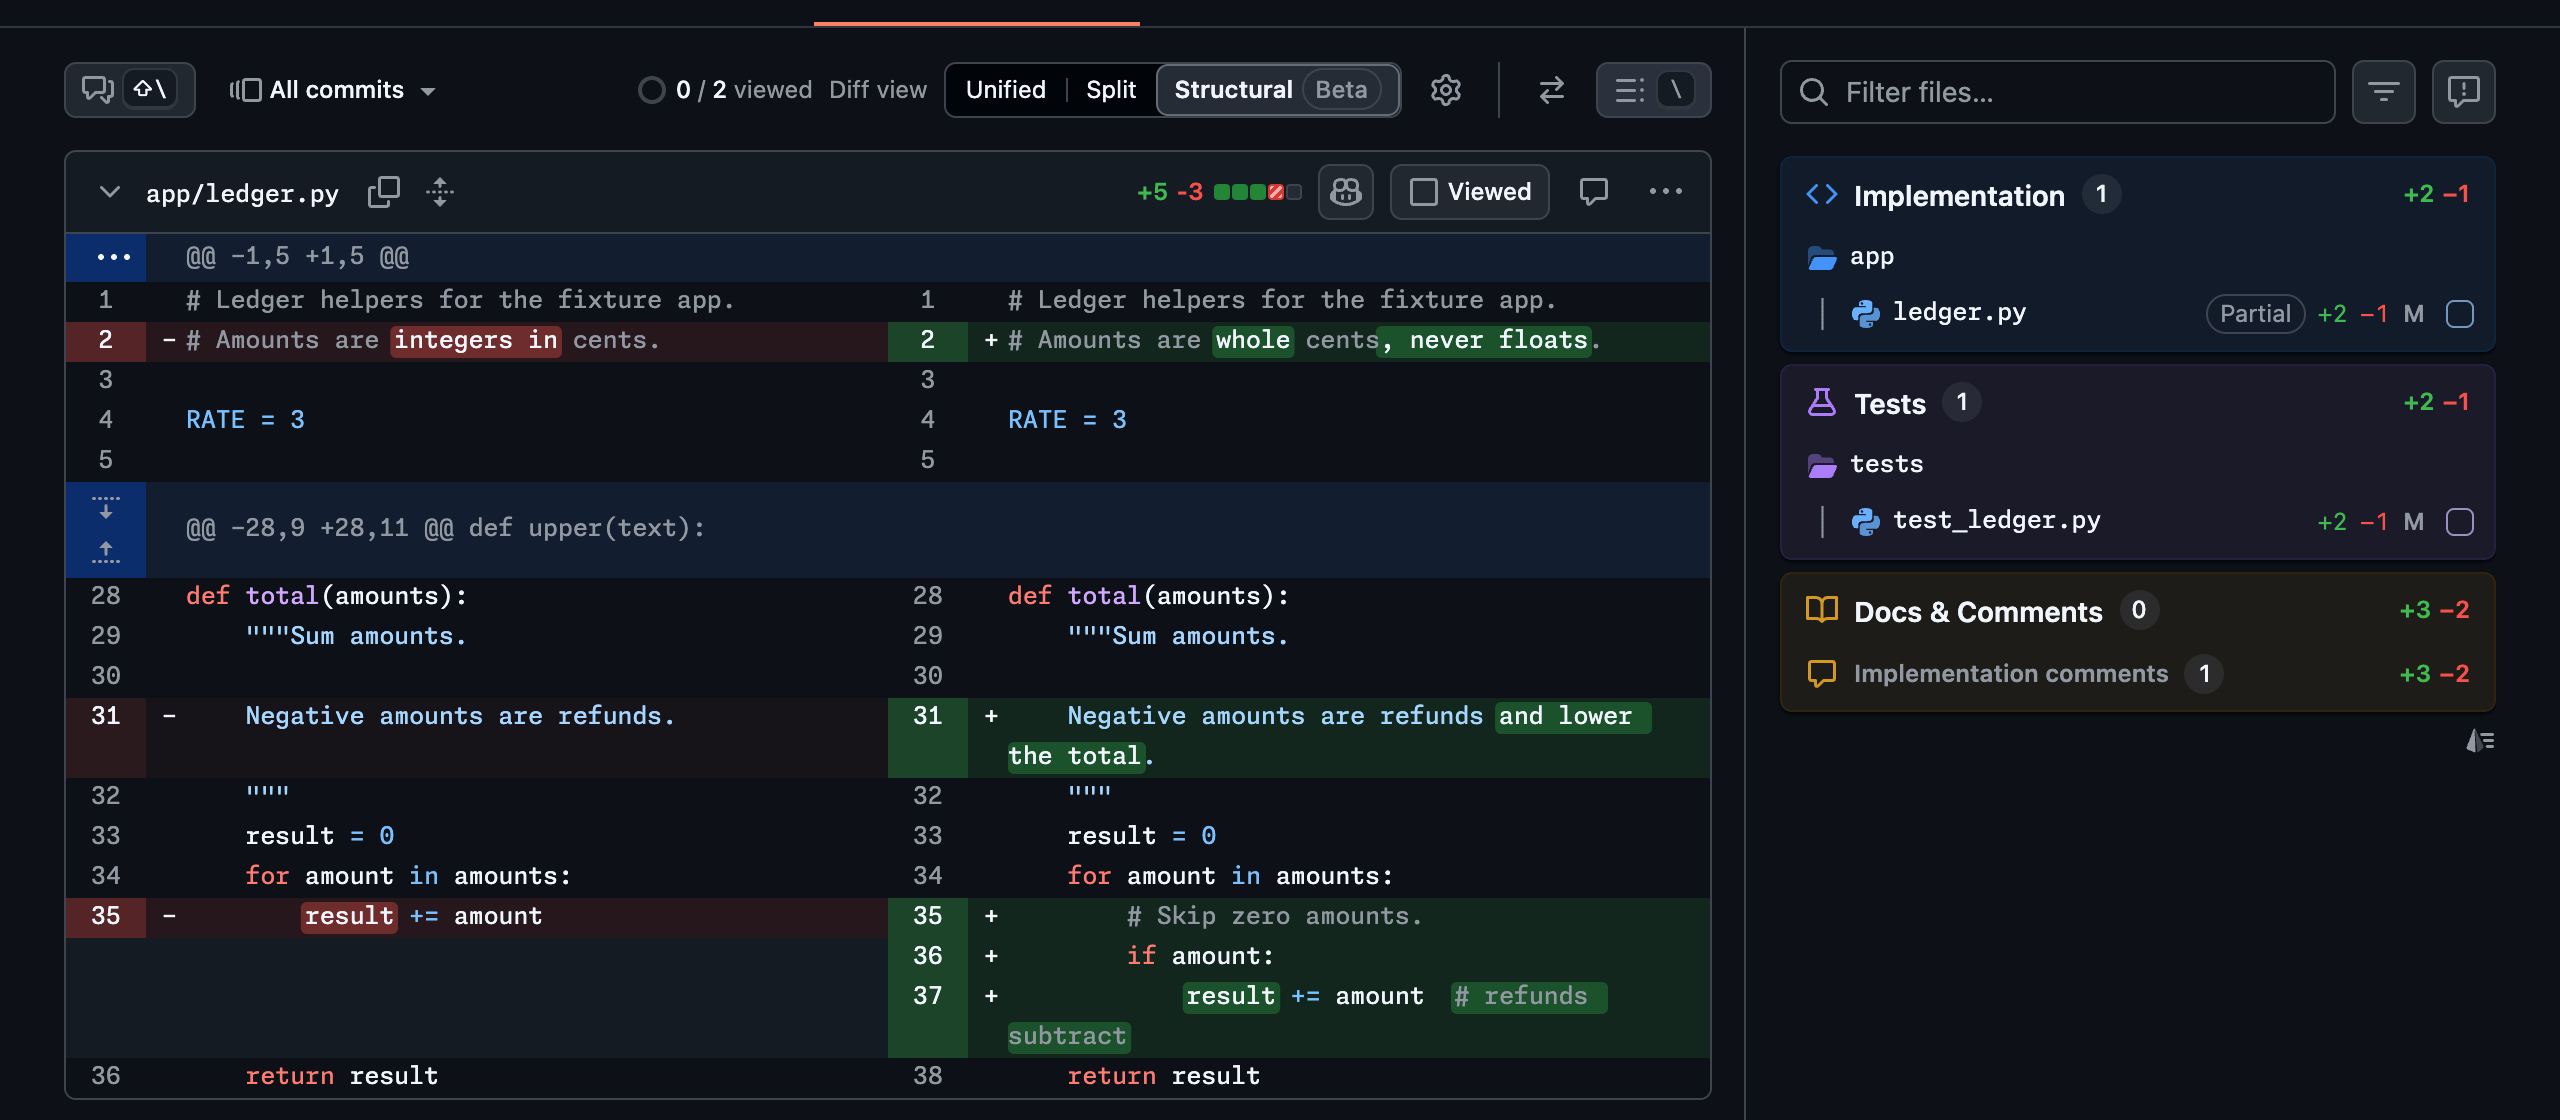
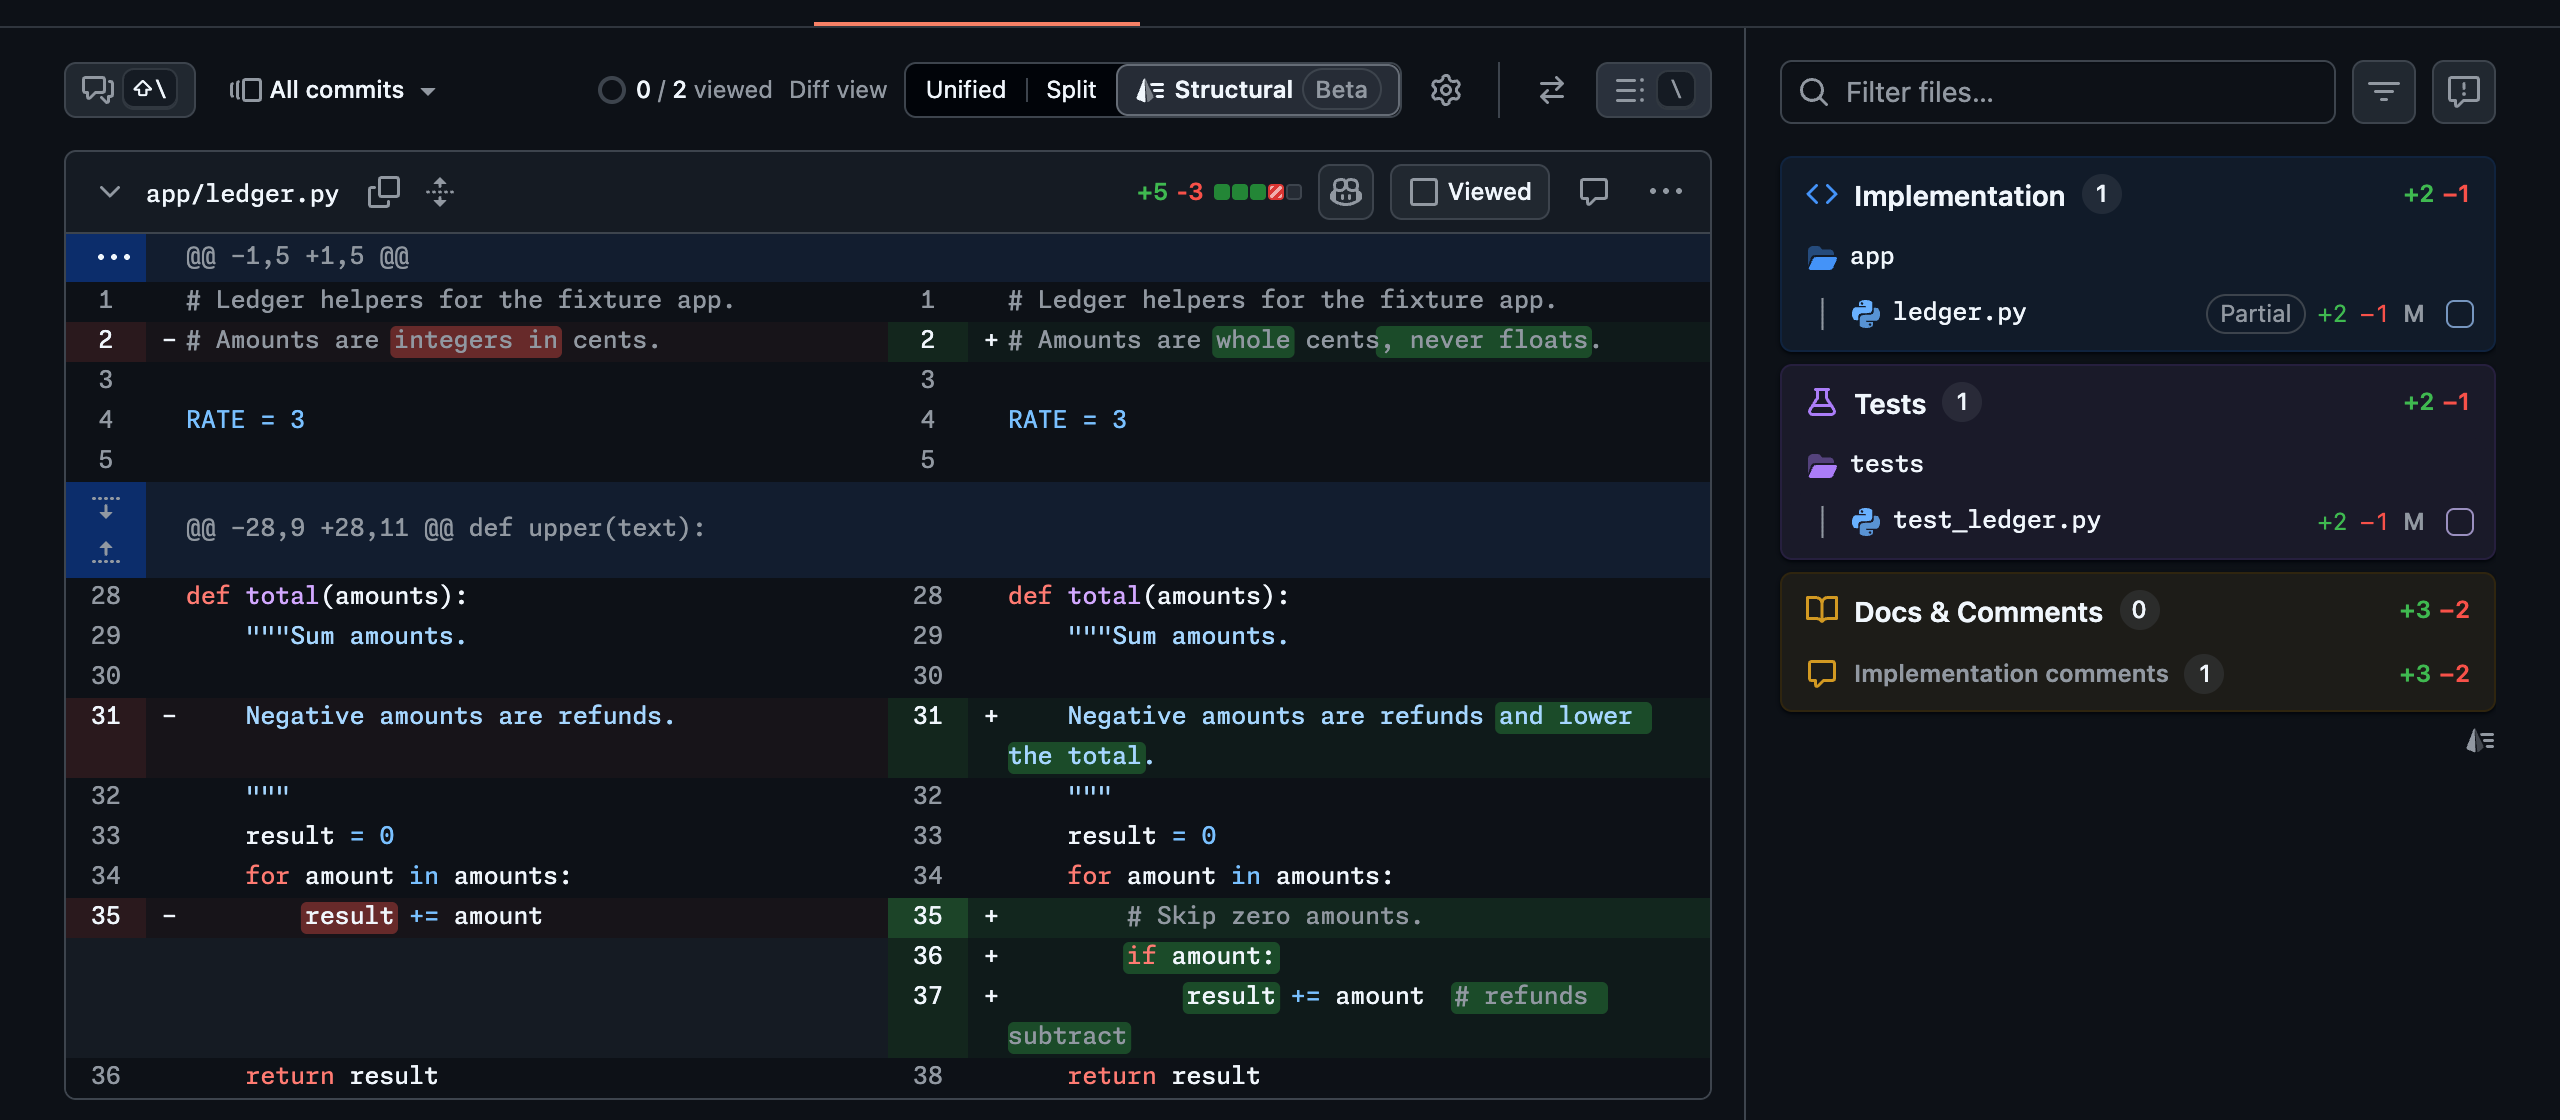
fix(structural): make the second feedback round's layers agree (#136)

diff --git a/utils/structural/engine.ts b/utils/structural/engine.ts
@@ -103,8 +103,14 @@ export async function structuralChanges(input: EngineInput): Promise<EngineResul
   if (!oldParsed.units || !newParsed.units) return { ok: true, changes };
 
   const inside = {
-    old: linesInside(oldSource, changed.old, oldParsed.units),
-    new: linesInside(newSource, changed.new, newParsed.units),
+    old: linesInside(oldSource, oldParsed.units, {
+      changed: changed.old,
+      rewritten: changed.rewritten.old,
+    }),
+    new: linesInside(newSource, newParsed.units, {
+      changed: changed.new,
+      rewritten: changed.rewritten.new,
+    }),
   };
   return { ok: true, changes: { ...changes, inside } };
 }
@@ -186,6 +192,21 @@ interface ChangedTokens {
   readonly new: readonly Token[];
 }
 
+/** A window's changed tokens, `rewritten` when its diff passed the edit limit. */
+interface WindowChanges extends ChangedTokens {
+  readonly rewritten?: true;
+}
+
+/** Every region's changed tokens, and those among them of the regions rewritten past the edit limit. */
+interface RegionChanges extends ChangedTokens {
+  readonly rewritten: ChangedTokens;
+}
+
+const joined = (parts: readonly ChangedTokens[]): ChangedTokens => ({
+  old: parts.flatMap((part) => part.old),
+  new: parts.flatMap((part) => part.new),
+});
+
 /** The tokens one Myers diff per region finds changed, or `too-slow` past the diff's deadline. */
 function changedTokens(
   regions: readonly ChangedRegion[],
@@ -193,9 +214,9 @@ function changedTokens(
   newSource: Source,
   limits: EngineLimits,
   now: () => number,
-): ChangedTokens | "too-slow" {
+): RegionChanges | "too-slow" {
   const deadline = now() + limits.maxDiffMs;
-  const parts: ChangedTokens[] = [];
+  const parts: WindowChanges[] = [];
   for (const window of diffWindows(regions, oldSource, newSource)) {
     if (now() > deadline) return "too-slow";
     parts.push(
@@ -207,7 +228,7 @@ function changedTokens(
     );
   }
 
-  return { old: parts.flatMap((part) => part.old), new: parts.flatMap((part) => part.new) };
+  return { ...joined(parts), rewritten: joined(parts.filter((part) => part.rewritten)) };
 }
 
 /** One version's tokens in a window. */
@@ -314,7 +335,7 @@ function windowChanges(
   oldSide: WindowSide,
   newSide: WindowSide,
   maxEditLength: number,
-): ChangedTokens {
+): WindowChanges {
   if (oldSide.tokens.length === 0 || newSide.tokens.length === 0)
     return { old: oldSide.tokens, new: newSide.tokens };
 
@@ -332,7 +353,7 @@ function windowChanges(
       ] as const);
 
   const parts = diffArrays(firstKeys, secondKeys, { maxEditLength });
-  if (parts === undefined) return { old: oldSide.tokens, new: newSide.tokens };
+  if (parts === undefined) return { old: oldSide.tokens, new: newSide.tokens, rewritten: true };
 
   const matches = withoutChanceMatches(matchesOf(parts), first, second);
   const matched = new Set(matches);
@@ -408,9 +429,17 @@ function spansOf({ text, starts }: Source, tokens: readonly Token[]): TokenSpan[
 
 /**
  * The 1-based lines, in order, of each of `changed` that left or arrived inside a unit that
- * remains: every token but those of a unit changed whole whose parent was not.
+ * remains: every token but those of a unit changed whole whose parent was not, and those of a
+ * region rewritten past the edit limit, which left or arrived as a block too.
  */
-function linesInside(source: Source, changed: readonly Token[], units: readonly Unit[]): number[] {
+function linesInside(
+  source: Source,
+  units: readonly Unit[],
+  {
+    changed,
+    rewritten,
+  }: { readonly changed: readonly Token[]; readonly rewritten: readonly Token[] },
+): number[] {
   const { tokens } = source;
   const isChanged = new Set(changed);
   const changedBefore = [0];
@@ -420,7 +449,7 @@ function linesInside(source: Source, changed: readonly Token[], units: readonly 
   const changedWhole = ({ from, to }: { from: number; to: number }) =>
     from < to && (changedBefore[to] ?? 0) - (changedBefore[from] ?? 0) === to - from;
 
-  const wentWhole = new Set<Token>();
+  const wentWhole = new Set(rewritten);
   for (const unit of units) {
     const own = range(unit.start, unit.end);
     if (!changedWhole(own) || changedWhole(range(unit.parentStart, unit.parentEnd))) continue;

diff --git a/tests/utils/structural/engine.test.ts b/tests/utils/structural/engine.test.ts
@@ -680,6 +680,17 @@ describe("structuralChanges, lines inside a unit that remains", () => {
     expect(await insideLines("typescript", oldText, newText)).toEqual({ old: [], new: [] });
   });
 
+  it("names no line of an entry removed from between two entries like it", async () => {
+    const entry = (id: string) => `  {\n    id: "${id}",\n    run: () => go("${id}"),\n  },\n`;
+    const oldText = `const l = [\n${entry("a")}${entry("b")}${entry("c")}];\n`;
+    const newText = `const l = [\n${entry("a")}${entry("c")}];\n`;
+    const regions = [{ oldStart: 6, oldEnd: 10, newStart: 6, newEnd: 6 }];
+
+    const result = await run("typescript", oldText, newText, { regions });
+
+    expect(changesOf(result).inside).toEqual({ old: [], new: [] });
+  });
+
   it("names no line of a method deleted from a class", async () => {
     const oldText =
       "class A {\n  one() {\n    return 1;\n  }\n\n  two() {\n    return 2;\n  }\n}\n";
@@ -727,6 +738,18 @@ describe("structuralChanges, lines inside a unit that remains", () => {
     const newText = "/**\n * Keeps this.\n * Says something else entirely.\n */\nf();\n";
 
     expect(await insideLines("typescript", oldText, newText)).toEqual({ old: [3], new: [3] });
+  });
+
+  it("names no line of a region rewritten past maxEditLength, whose function keeps its closing brace", async () => {
+    const oldText = "const keep = 1;\nfunction f() {\n  a(1);\n  b(2);\n}\n";
+    const newText = "const keep = 1;\nclass G {\n  m() {}\n}\n";
+
+    const result = await run("typescript", oldText, newText, { limits: { maxEditLength: 3 } });
+
+    const changes = changesOf(result);
+    expect(unmarked(oldText, changes.old, 2, 4)).toEqual(["", "", ""]);
+    expect(unmarked(newText, changes.new, 2, 3)).toEqual(["", ""]);
+    expect(changes.inside).toEqual({ old: [], new: [] });
   });
 
   it("names no line of plain text, which has no units", async () => {

diff --git a/tests/utils/structural/languages.test.ts b/tests/utils/structural/languages.test.ts
@@ -562,4 +562,12 @@ describe("structuralChanges in each language", () => {
       });
     },
   );
+
+  it("refuses a Markdown file with a table that does not parse", async () => {
+    const text = (word: string) => `| a |\n|--\n\nsome ${word} here\n`;
+
+    const result = changedTexts("a.md", text("old"), text("new"));
+
+    await expect(result).rejects.toThrow("a.md refused: failed");
+  });
 });

diff --git a/README.md b/README.md
@@ -190,7 +190,7 @@ a commit's page, picks how the diffs are drawn: **Unified**, **Split**, or **Str
 
 <picture>
   <source media="(prefers-color-scheme: dark)" srcset="docs/images/structural-dark.png">
-  <img src="docs/images/structural-light.png" width="1280" alt="The toolbar's Diff view control, with Unified, Split, and Structural. Structural is pressed and carries a Beta tag. The control sits beside GitHub's diff settings gear. Below, app/ledger.py in GitHub's split layout, where only the changed words of each edited line sit in a rounded highlight, such as “integers in” becoming “whole” and the added “, never floats” in a comment.">
+  <img src="docs/images/structural-light.png" width="1280" alt="The toolbar's Diff view control, with Unified, Split, and Structural. Structural is pressed, leads with gh-prism's prism icon, and carries a Beta tag. The control sits beside GitHub's diff settings gear. Below, app/ledger.py in GitHub's split layout, where only the changed words of each edited line sit in a rounded highlight on a paler line colour, such as “integers in” becoming “whole” and the added “, never floats” in a comment. The added line “if amount:” is highlighted whole.">
 </picture>
 
 </details>

diff --git a/docs/ARCHITECTURE.md b/docs/ARCHITECTURE.md
@@ -114,10 +114,11 @@ argument, or an argument added to an unchanged call.
 [`utils/structural/units.ts`](../utils/structural/units.ts) reads each parse for its
 units: the syntax nodes that have their lines to themselves. After the diff, the engine
 takes each unit changed whole whose parent node was not, and sets its tokens aside as a
-block that left or arrived. Every other changed token changed inside a unit that remains,
-and the engine lists those tokens' lines in `StructuralChanges.inside`. `structuralFile`
-copies the list onto each line's annotation as `inside`. A `.txt` file has no units and no
-list.
+block that left or arrived. A region whose diff passes `maxEditLength` is changed whole on
+both sides, and the engine sets its tokens aside the same way. Every other changed token
+changed inside a unit that remains, and the engine lists those tokens' lines in
+`StructuralChanges.inside`. `structuralFile` copies the list onto each line's annotation
+as `inside`. A `.txt` file has no units and no list.
 
 The content script in [`entrypoints/content/index.ts`](../entrypoints/content/index.ts)
 runs on every github.com page at `document_start`, so its watcher is in place before

diff --git a/docs/agents/references/readme.md b/docs/agents/references/readme.md
@@ -29,7 +29,9 @@ Each picture is a `<picture>` whose `<source media="(prefers-color-scheme: dark)
 `docs/images/<surface>-dark.png` and whose `<img>` names `<surface>-light.png`, with
 `width` half the PNG's pixel width. Capture both at 2× device pixels with the same crop,
 below GitHub's global header, by emulating the colour scheme while the account's
-Appearance is "Sync with system" with Light default and Dark default. Compress them with
+Appearance is "Sync with system" with Light default and Dark default. When the account
+hides whitespace changes, add `w=0` to a pull request's URL: GitHub's "Hide whitespace"
+chip takes the toolbar room the diff view control needs at this width. Compress them with
 `mise x oxipng@latest -- oxipng -o max --strip safe`.
 
 | Surface | Source |
